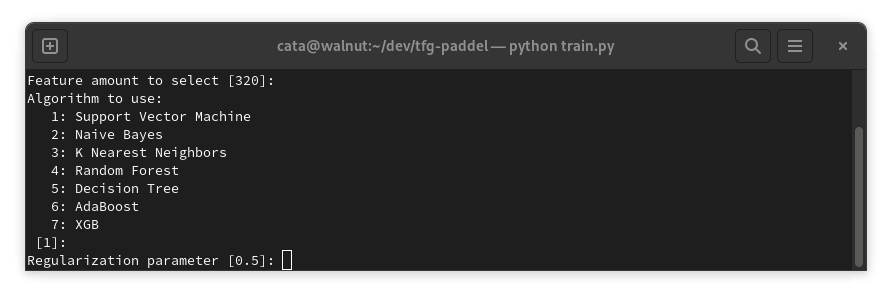
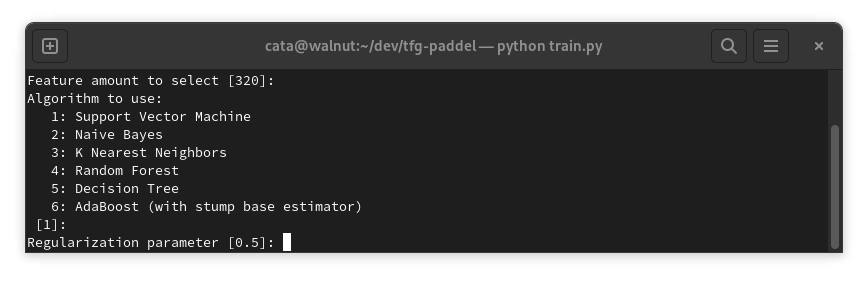
Fix AdaBoost estimator

diff --git a/train.py b/train.py
@@ -6,8 +6,7 @@ from pathlib import Path
 import click
 import pandas as pd
 
-from xgboost import XGBClassifier
-from sklearn.neural_network import MLPClassifier
+
 from sklearn.tree import DecisionTreeClassifier
 from sklearn.ensemble import RandomForestClassifier, AdaBoostClassifier
 from sklearn.neighbors import KNeighborsClassifier
@@ -119,6 +118,7 @@ def svc_function(c, kernel, degree, gamma, coef0, tol):
     )
 
 
+@click.command()
 def nb_function():
     global clf
     clf = GaussianNB()
@@ -184,14 +184,31 @@ def decision_tree_function(criterion, splitter):
     clf = DecisionTreeClassifier(criterion=criterion, splitter=splitter)
 
 
+@click.command()
+@click.option(
+    "--n_estimators",
+    prompt="Number of estimators (stumps) to use",
+    default=50,
+    type=click.IntRange(min=1),
+)
+@click.option(
+    "--learning_rate",
+    prompt="Learning rate",
+    default=1.0,
+    type=click.FloatRange(min=0, min_open=True),
+)
+def adaboost_function(n_estimators, learning_rate):
+    global clf
+    clf = AdaBoostClassifier(n_estimators=n_estimators, learning_rate=learning_rate)
+
+
 algorithmFunctions = {
     "Support Vector Machine": svc_function,
     "Naive Bayes": nb_function,
     "K Nearest Neighbors": knn_function,
     "Random Forest": random_forest_function,
     "Decision Tree": decision_tree_function,
-    "AdaBoost": AdaBoostClassifier,
-    "XGB": XGBClassifier,
+    "AdaBoost (with stump base estimator)": adaboost_function,
 }
 
 
@@ -233,7 +250,9 @@ def main(video_dir, cache_dir, output_file, algorithm, feature_amount):
 
     with suppress_stdout_stderr():
         if cache_dir != "-":
-            misc_df, classic_df, fresh_df, y = get_data(Path(video_dir), Path(cache_dir))
+            misc_df, classic_df, fresh_df, y = get_data(
+                Path(video_dir), Path(cache_dir)
+            )
         else:
             misc_df, classic_df, fresh_df, y = get_data(Path(video_dir))
 
